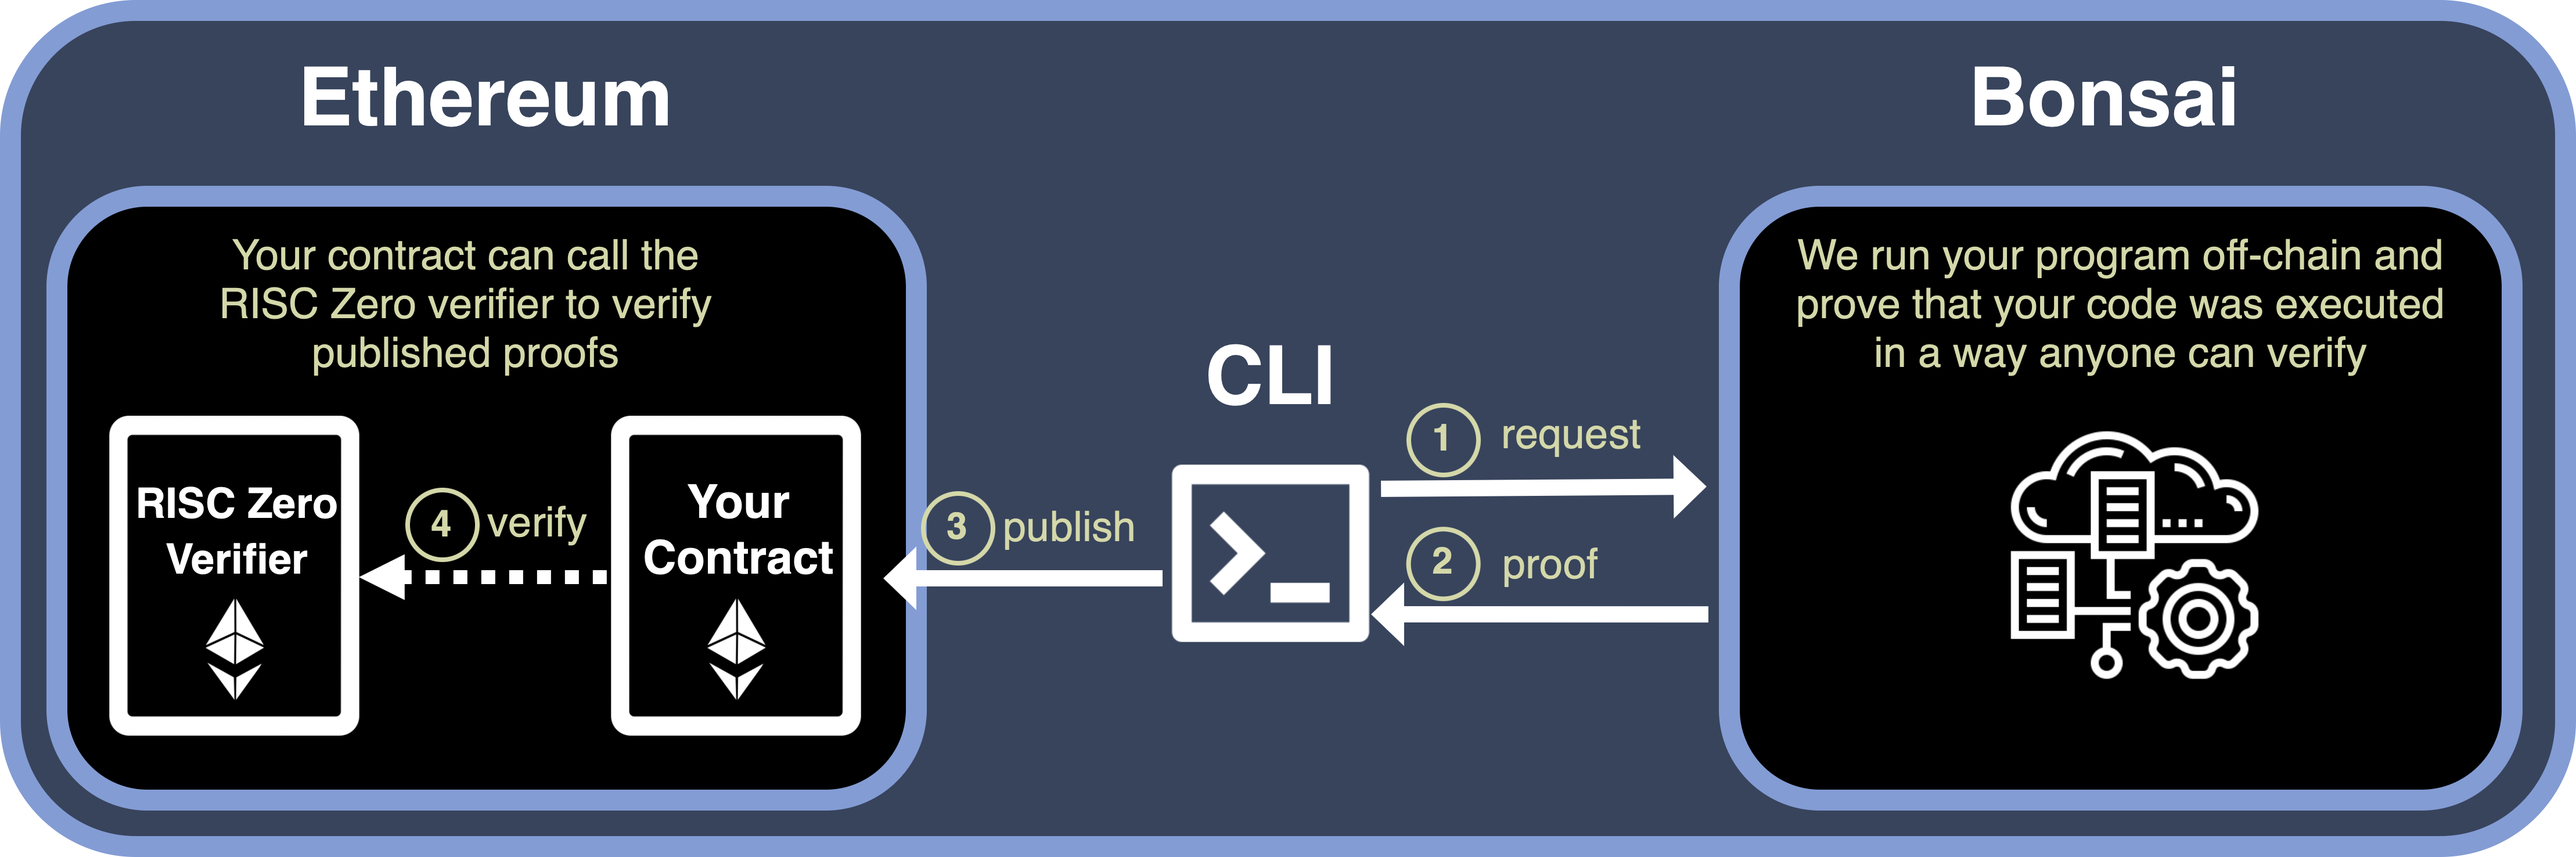
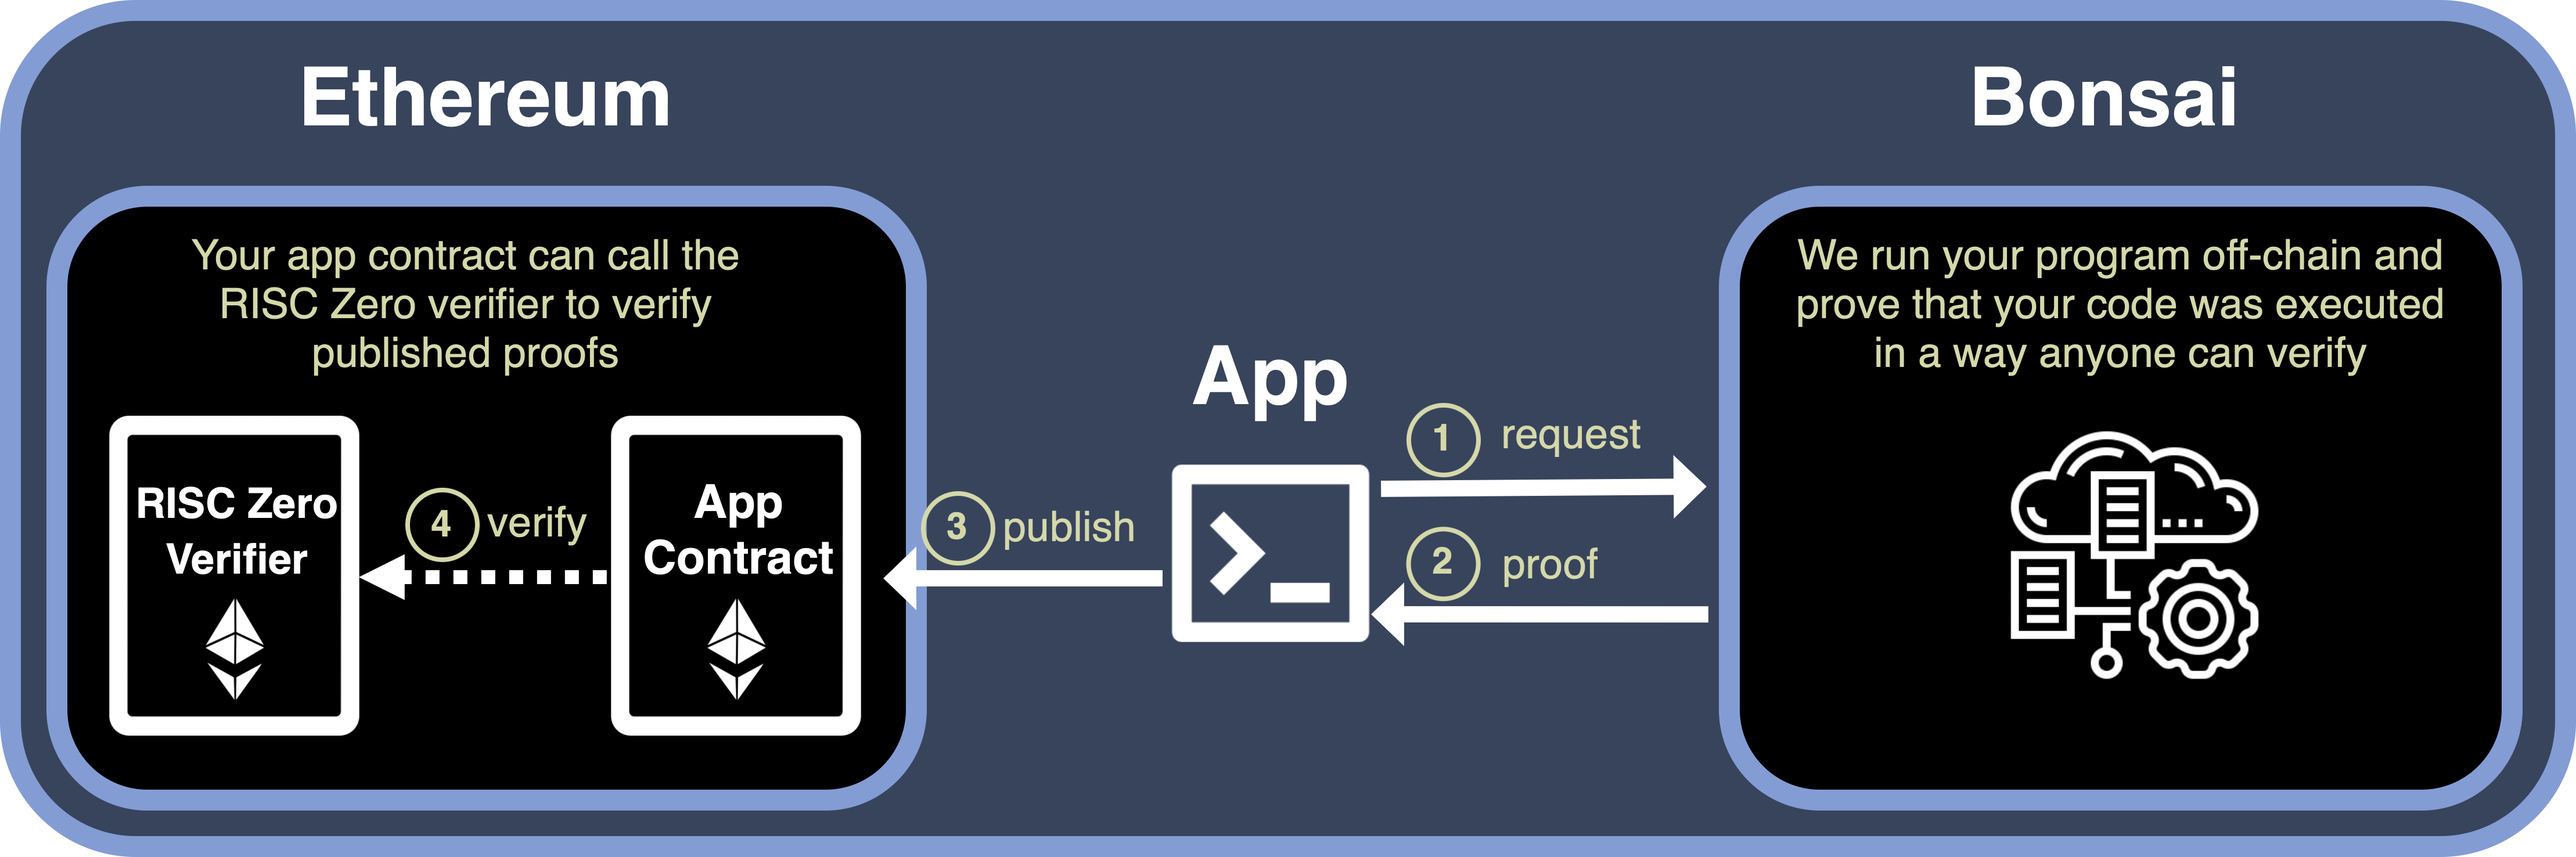
update README

Changed region(s): [[0.0622, 0.2805, 0.28, 0.3117], [0.4666, 0.4051, 0.5289, 0.4986], [0.2489, 0.561, 0.3111, 0.6233]]

diff --git a/README.md b/README.md
@@ -14,9 +14,9 @@ Here is a simplified overview of how devs can integrate RISC Zero, with [Bonsai]
 
 ![Bonsai Foundry Template Diagram](images/bonsai-foundry-template.png)
 
-1. Run your application logic in the [RISC Zero zkVM]. The provided Command Line Interface (CLI) sends an off-chain proof request to the [Bonsai] proving service.
+1. Run your application logic in the [RISC Zero zkVM]. The provided [Publisher] App sends an off-chain proof request to the [Bonsai] proving service.
 2. [Bonsai] generates the program result, written to the [journal], and a SNARK proof of its correctness.
-3. The CLI submits this proof and journal on-chain to your app contract for validation.
+3. The [Publisher] App submits this proof and journal on-chain to your app contract for validation.
 4. Your app contract calls the [RISC Zero Verifier] to validate the proof. If the verification is successful, the journal is deemed trustworthy and can be safely used.
 
 ## Dependencies
@@ -106,10 +106,14 @@ Below are the primary files in the project directory
 .
 ├── Cargo.toml                      // Configuration for Cargo and Rust
 ├── foundry.toml                    // Configuration for Foundry
+├── apps
+│   ├── Cargo.toml
+│   └── src
+│       └── lib.rs                  // Utility functions
+│       └── bin                     
+│           └── publisher.rs        // Example app to publish program results into your app contract 
 ├── contracts
 │   └── EvenNumber.sol              // Basic example contract for you to modify
-├── tests
-│   └── EvenNumber.t.sol            // Tests for the basic example contract
 ├── methods
 │   ├── Cargo.toml
 │   ├── guest
@@ -119,11 +123,9 @@ Below are the primary files in the project directory
 │   │           └── is_even.rs      // Example guest program for cheking if a number is even
 │   └── src
 │       └── lib.rs                  // Compiled image IDs and tests for your guest programs
-└── cli
-    ├── Cargo.toml
-    └── src
-        ├── interface.rs            // Interface for interacting with your contract
-        └── main.rs                 // CLI for interacting with your application
+└── tests
+    ├── EvenNumber.t.sol            // Tests for the basic example contract
+    └── MockRiscZeroVerifier.sol    // RISC Zero Verifier mock contract
 ```
 
 [RISC Zero]: https://www.risczero.com/
@@ -146,3 +148,4 @@ Below are the primary files in the project directory
 [deployment guide]: /deployment-guide.md
 [Sepolia]: https://www.alchemy.com/overviews/sepolia-testnet
 [RISC Zero installation]: https://dev.risczero.com/api/zkvm/install
+[Publisher]: ./apps/README.md
